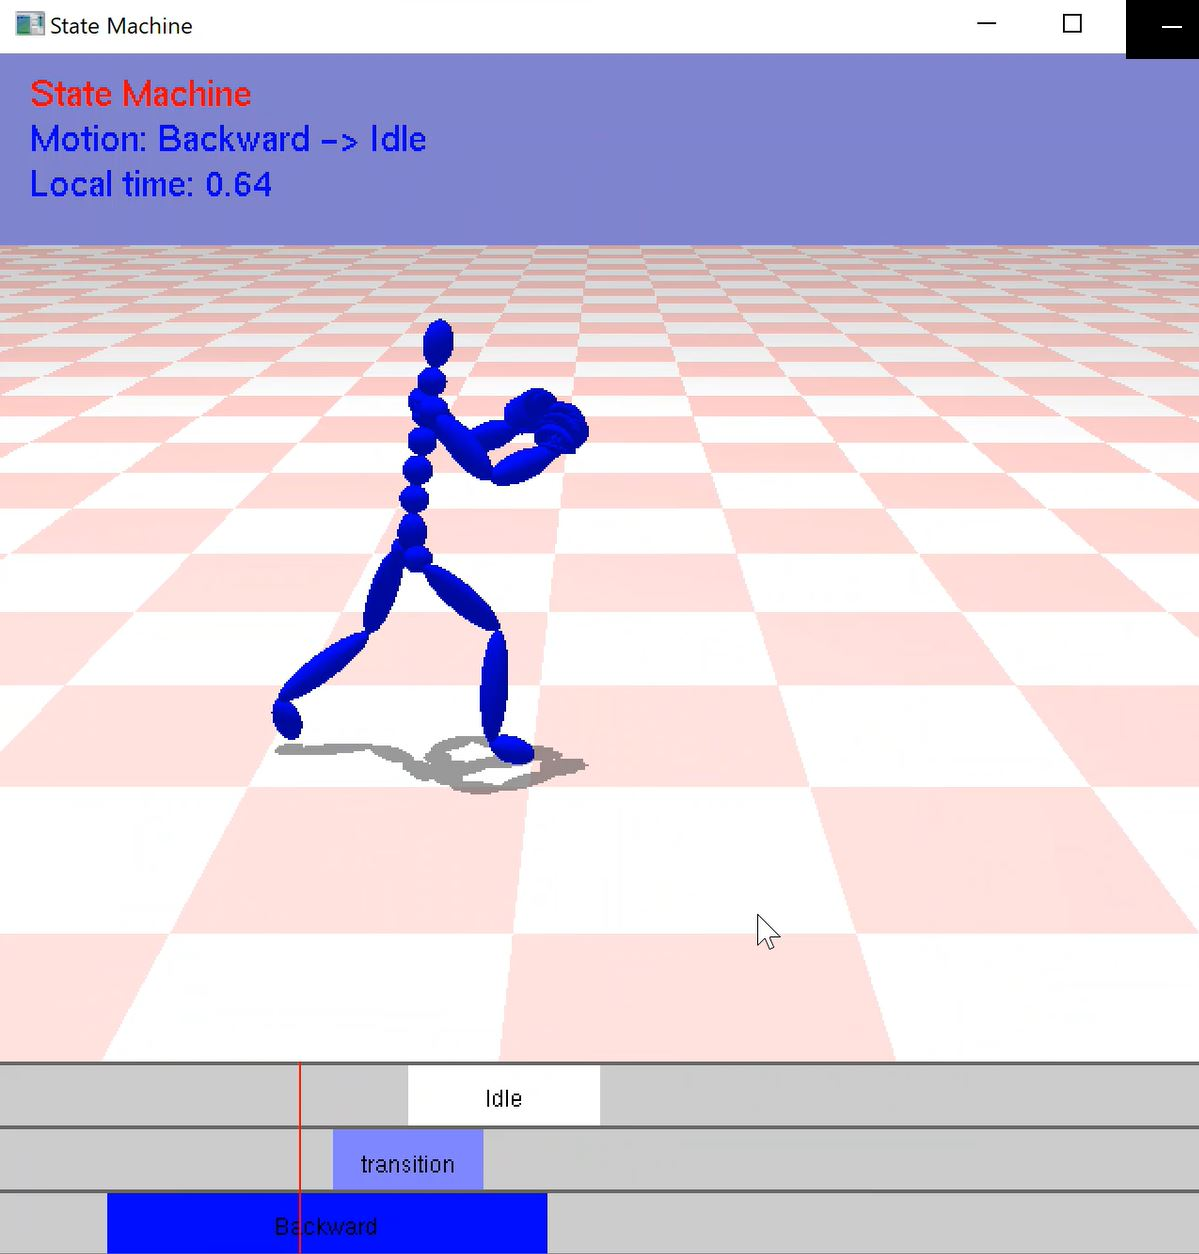
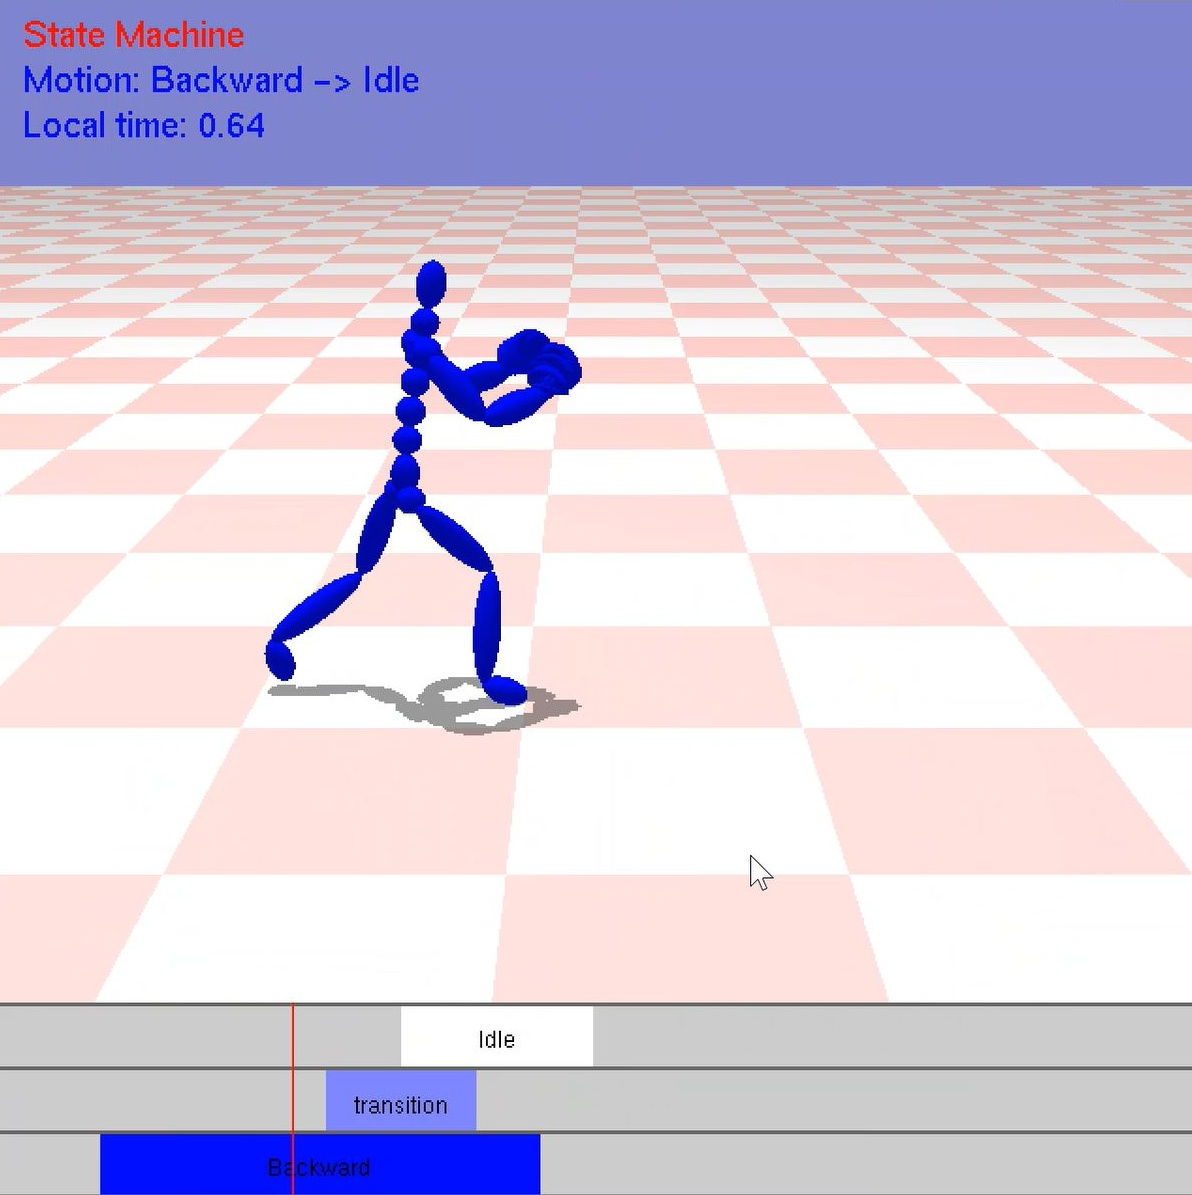
revise image size

diff --git a/index.html b/index.html
@@ -31,13 +31,13 @@
                 <a class="nav-link" href="#about">About Me</a>
               </li>
               <li class="nav-item">
-                <a class="nav-link" href="#services">Skills &Tools</a>
+                <a class="nav-link" href="#services">Skills & Tools</a>
               </li>
               <li class="nav-item">
                 <a class="nav-link" href="#portofolio">Projects & Portofolios</a>
               </li>
               <li class="nav-item">
-                <a class="nav-link" href="#photo">My Photography</a>
+                <a class="nav-link" href="#photo">Photography</a>
               </li>
               <li class="nav-item">
                 <a class="nav-link" href="#contact">Contact</a>
@@ -59,7 +59,7 @@
               <!--column for image-->
               <div class="col-md-6 mt-5 mt-md-0"> <!--column medium 6-->
                 <div class="ImgHome text-center">
-                  <img src="/images/bg5.png" class="rounded-circle mw-100 img-thumbnail" alt="profile-img">
+                  <img src="/images/bg5.png" class="rounded-circle mw-100 " alt="profile-img">
                 </div>
               </div>
 
@@ -207,18 +207,18 @@
                       </div>
                     </div> 
                   </div> 
-                    <!--content-->
+                    <!--content img size 600x600-->
                     <div class="row">
                       <div class="col-md-6 col-lg-4">
                         <div class="portofolio-item">
-                          <img src="/images/port1.JPG" class="w-100 img-thumbnail" alt="portofolio">
-                          <h3 class=" custom-font text-capitalize fs-5 my-2">Computer Animation Technique</h3>
+                          <img src="/images/port2.JPG" class=" w-100 img-fluid rounded-start rounded-end " alt="portofolio">
+                          <h3 class=" custom-font text-capitalize fs-5 my-2">Personal website portofolio</h3>
                           <p class="mb-4"><a href="#" class="custom-font text-danger text-decoration-none">View repo</a></p>
                         </div>
                       </div>
                       <div class="col-md-6 col-lg-4">
                         <div class="portofolio-item">
-                          <img src="/images/port1.JPG" class="w-100 img-thumbnail" alt="portofolio">
+                          <img src="/images/port1.JPG" class="w-100 img-fluid rounded-start rounded-end" alt="portofolio">
                           <h3 class="custom-font text-capitalize fs-5 my-2">Computer Animation Technique</h3>
                           <p class="mb-4"><a href="#" class="custom-font text-danger text-decoration-none">View repo</a></p>
                         </div>
@@ -226,8 +226,8 @@
 
                       <div class="col-md-6 col-lg-4">
                         <div class="portofolio-item">
-                          <img src="/images/port1.JPG" class="w-100 img-thumbnail" alt="portofolio">
-                          <h3 class="custom-font text-capitalize fs-5 my-2">Computer Animation Technique</h3>
+                          <img src="/images/port3.JPG" class="w-100 img-fluid rounded-start rounded-end" alt="portofolio">
+                          <h3 class="custom-font text-capitalize fs-5 my-2">Optitrack motion capture system</h3>
                           <p class="mb-4"><a href="#" class="custom-font text-danger text-decoration-none">View repo</a></p>
                         </div>
                       </div>
@@ -250,7 +250,9 @@
                           <img src="images/img2.jpg">
                       </div>
                       <div class="textBx">
-                          <h3>Fukuoka Tower</h3> 
+                          <h3>Fukuoka Tower | 福岡タワー
+                            <br><p>📍 Fukuoka, Japan</p>
+                          </h3> 
                       </div>
                   </div>
                   <div class="workBx">
@@ -258,42 +260,54 @@
                           <img src="images/img3.jpg">
                       </div>
                       <div class="textBx">
-                          <h3>Hakata Station</h3> 
+                        <h3>Hakata Station | 博多駅
+                          <br><p>📍 Fukuoka, Japan</p>
+                        </h3>
                       </div>
                   </div> <div class="workBx">
                       <div class="imgBx">
                           <img src="images/img4.jpg">
                       </div>
                       <div class="textBx">
-                          <h3>Kyutech | snow</h3> 
+                          <h3>Kyutech | 九州工業大学
+                            <br><p>📍 Iizuka, Japan</p>
+                          </h3> 
                       </div>
                   </div> <div class="workBx">
                       <div class="imgBx">
                           <img src="images/img5.jpg">
                       </div>
                       <div class="textBx">
-                          <h3>Tenjin | Fukuoka</h3> 
+                        <h3>Tenjin | 天神
+                          <br><p>📍 Fukuoka, Japan</p>
+                        </h3> 
                       </div>
                   </div> <div class="workBx">
                       <div class="imgBx">
                           <img src="images/img6.jpg">
                       </div>
                       <div class="textBx">
-                          <h3>Hakata Station</h3> 
+                         <h3>Hakata Station | 博多駅
+                          <br><p>📍 Fukuoka, Japan</p>
+                        </h3>
                       </div>
                   </div> <div class="workBx">
                       <div class="imgBx">
                           <img src="images/img7.jpg">
                       </div>
                       <div class="textBx">
-                          <h3>Cherry Blossoms</h3> 
+                        <h3>Kyutech | 九州工業大学
+                          <br><p>📍 Iizuka, Japan</p>
+                        </h3> 
                       </div>
                   </div> <div class="workBx">
                       <div class="imgBx">
                           <img src="images/img8.jpg">
                       </div>
                       <div class="textBx">
-                          <h3>Kyoto</h3> 
+                          <h3>Gion|祇園
+                            <br><p>📍 Kyoto, Japan</p>
+                          </h3> 
                       </div>
                   </div>
               </div>

diff --git a/file.html b/file.html
@@ -1,7 +1,25 @@
-                        <!--social-->
-                        <div class="social">
-                            <a href="#"> <i class="fab fa-instagram"></i></a>
-                            <a href="#"> <i class="fab fa-linkedin"></i></a>
-                            <a href="#"> <i class="fab fa-twitter"></i></a>
-                            <a href="#"> <i class="fab fa-youtube"></i></a>
-                       
+    <!--content-->
+    <div class="row">
+        <div class="col-md-6 col-lg-4">
+          <div class="portofolio-item">
+            <img src="/images/port2.JPG" class=" w-100 img-fluid img-thumbnail" alt="portofolio">
+            <h3 class=" custom-font text-capitalize fs-5 my-2">Personal website portofolio</h3>
+            <p class="mb-4"><a href="#" class="custom-font text-danger text-decoration-none">View repo</a></p>
+          </div>
+        </div>
+        <div class="col-md-6 col-lg-4">
+          <div class="portofolio-item">
+            <img src="/images/port1.JPG" class="w-100 img-fluid img-thumbnail" alt="portofolio">
+            <h3 class="custom-font text-capitalize fs-5 my-2">Computer Animation Technique</h3>
+            <p class="mb-4"><a href="#" class="custom-font text-danger text-decoration-none">View repo</a></p>
+          </div>
+        </div>
+
+        <div class="col-md-6 col-lg-4">
+          <div class="portofolio-item">
+            <img src="/images/port1.JPG" class="w-100 img-thumbnail" alt="portofolio">
+            <h3 class="custom-font text-capitalize fs-5 my-2">Computer Animation Technique</h3>
+            <p class="mb-4"><a href="#" class="custom-font text-danger text-decoration-none">View repo</a></p>
+          </div>
+        </div>
+ </div>

diff --git a/style.css b/style.css
@@ -187,3 +187,4 @@ li a:hover {
  .navbar-toggler{
    z-index: 2;
  }
+
